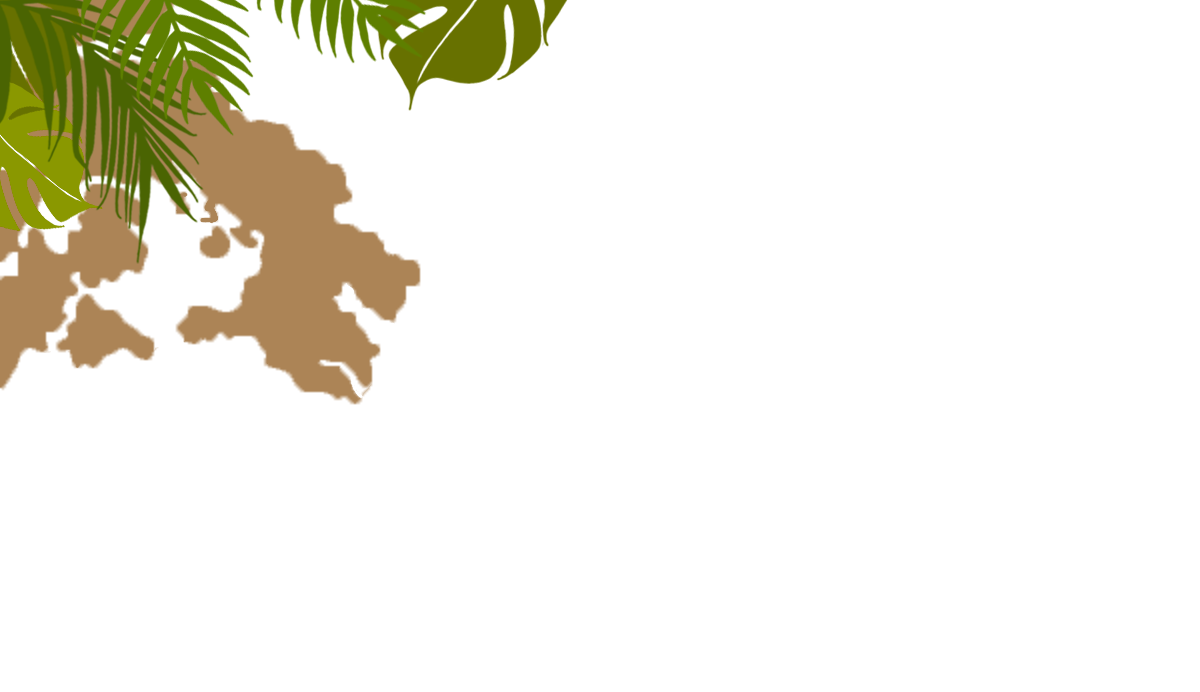
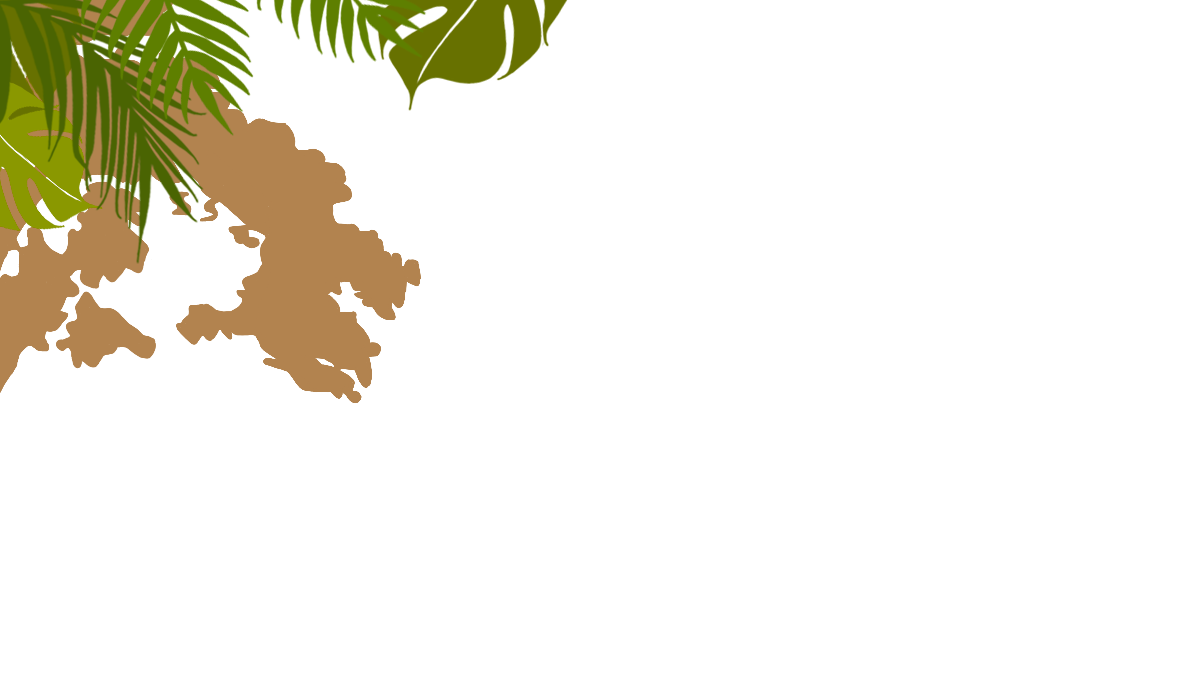
Mudei as imagens para boa qualidade

diff --git a/homepage.html b/homepage.html
@@ -11,23 +11,22 @@
 </head>
 
 <body>
-    <a href="nickname.html"></a>
-    <header class="backgroundInicial">
-        <img class="mapaInicial" id="DrtCima" src="/images/homepageCantoSupDrt.png" width="100%" height="auto"
-            alt="cantoSupDrt">
-        <img class="mapaInicial" id="DrtBaixo" src="/images/homepageCantoInfDrt.png" width="100%" height="auto"
-            alt="cantoInfDrt">
-        <img class="mapaInicial" id="EsqCima" src="/images/homepageCantoSupEsq.png" width="100%" height="auto"
-            alt="cantoSupEsq">
-        <img class="mapaInicial" id="EsqBaixo" src="/images/homepageCantoInfEsq.png" width="100%" height="auto"
-            alt="cantoInfDrt">
-        <img class="mapaInicial" id="CentroCima" src="/images/homepageCentroCima.png" width="100%" height="auto"
-            alt="centroCima">
-        <img class="mapaInicial" id="CentroBaixo" src="/images/homepageCentroBaixo.png" width="100%" height="auto"
-            alt="centroBaixo">
-        <img class="mapaInicial" src="/images/titulo.png" width="80%" height="auto" alt="fundoInicial">
-
-    </header>
+    <a href="nickname.html">
+        <header class="backgroundInicial">
+            <img class="mapaInicial" id="DrtCima" src="/images/homepageCantoSupDrt.png" width="100%" height="auto"
+                alt="cantoSupDrt">
+            <img class="mapaInicial" id="DrtBaixo" src="/images/homepageCantoInfDrt.png" width="100%" height="auto"
+                alt="cantoInfDrt">
+            <img class="mapaInicial" id="EsqCima" src="/images/homepageCantoSupEsq.png" width="100%" height="auto"
+                alt="cantoSupEsq">
+            <img class="mapaInicial" id="EsqBaixo" src="/images/homepageCantoInfEsq.png" width="100%" height="auto"
+                alt="cantoInfDrt">
+            <img class="mapaInicial" id="CentroCima" src="/images/homepageCentroCima.png" width="100%" height="auto"
+                alt="centroCima">
+            <img class="mapaInicial" id="CentroBaixo" src="/images/homepageCentroBaixo.png" width="100%" height="auto"
+                alt="centroBaixo">
+            <img class="mapaInicial" src="/images/titulo.png" width="80%" height="auto" alt="fundoInicial">
+        </header>
     </a>
 </body>
 

diff --git a/nickname.html b/nickname.html
@@ -11,7 +11,16 @@
 
 <body>
     <header class="backgroundSecundario">
-        <img class="mapaInicial" src="images/background_regras.png" width="90%" height="auto" alt="fundoInicial">
+        <picture>
+            <!-- Para telas com largura menor que 2000px, carrega a imagem grande -->
+            <source media="(max-width: 1999px)" srcset="images/nickname_S.png" width="90%" height="auto">
+
+            <!-- Para telas com largura maior que 2000px, carrega a imagem grande (nickname_G.png) -->
+            <source media="(min-width: 1999px)" srcset="images/nickname_G.png" width="90%" height="auto">
+        
+            <!-- Imagem fallback, caso nenhuma condição acima seja atendida -->
+            <img src="images/nickname_S.png" alt="Nickname" width="90%" height="auto">
+        </picture>
         <div class="nicknameContainer">
             <form class="nicknameForm">
                 <input type="text" class="nicknameInput" id="nickname">

diff --git a/JS/nickname.js b/JS/nickname.js
@@ -13,3 +13,4 @@ function saveNicknameOnEnter(event) {
         //alert("Nickname salvo com sucesso!");
     }
 }
+
